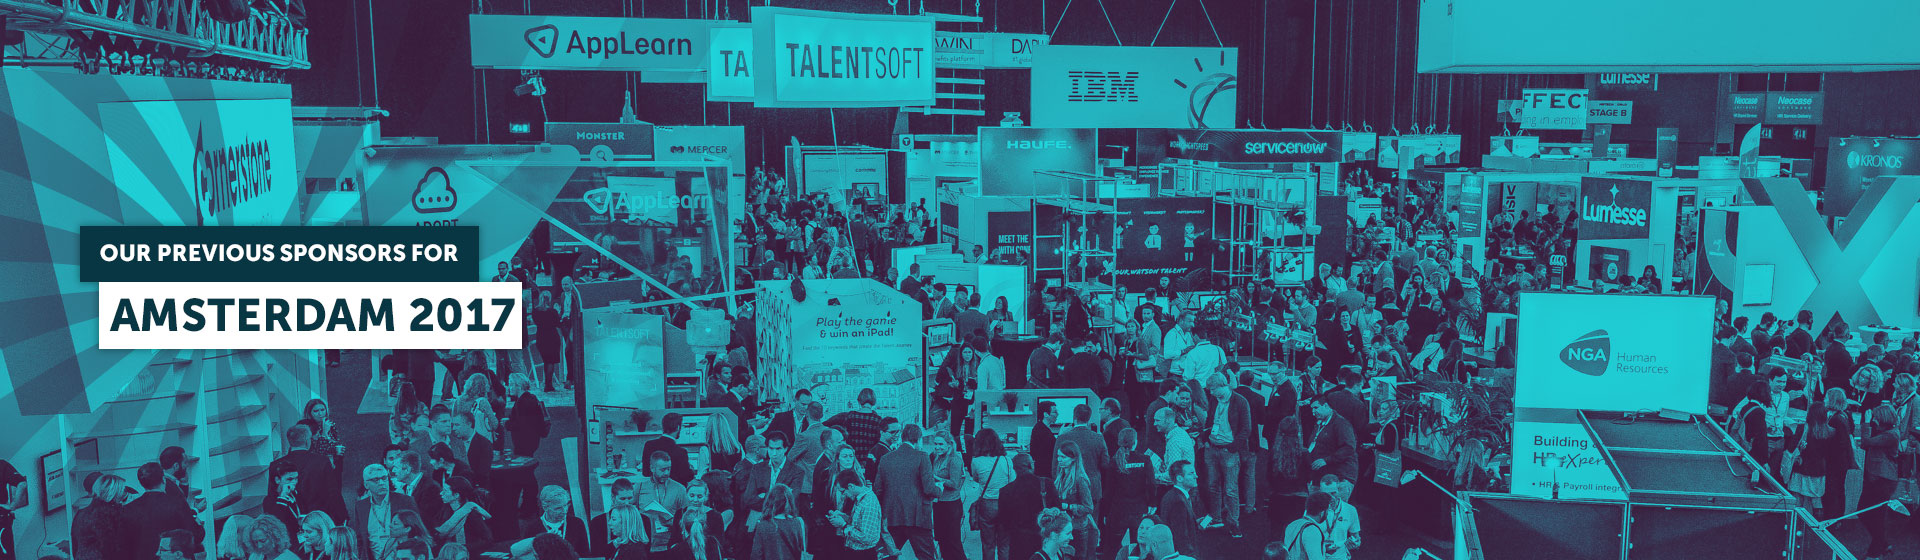
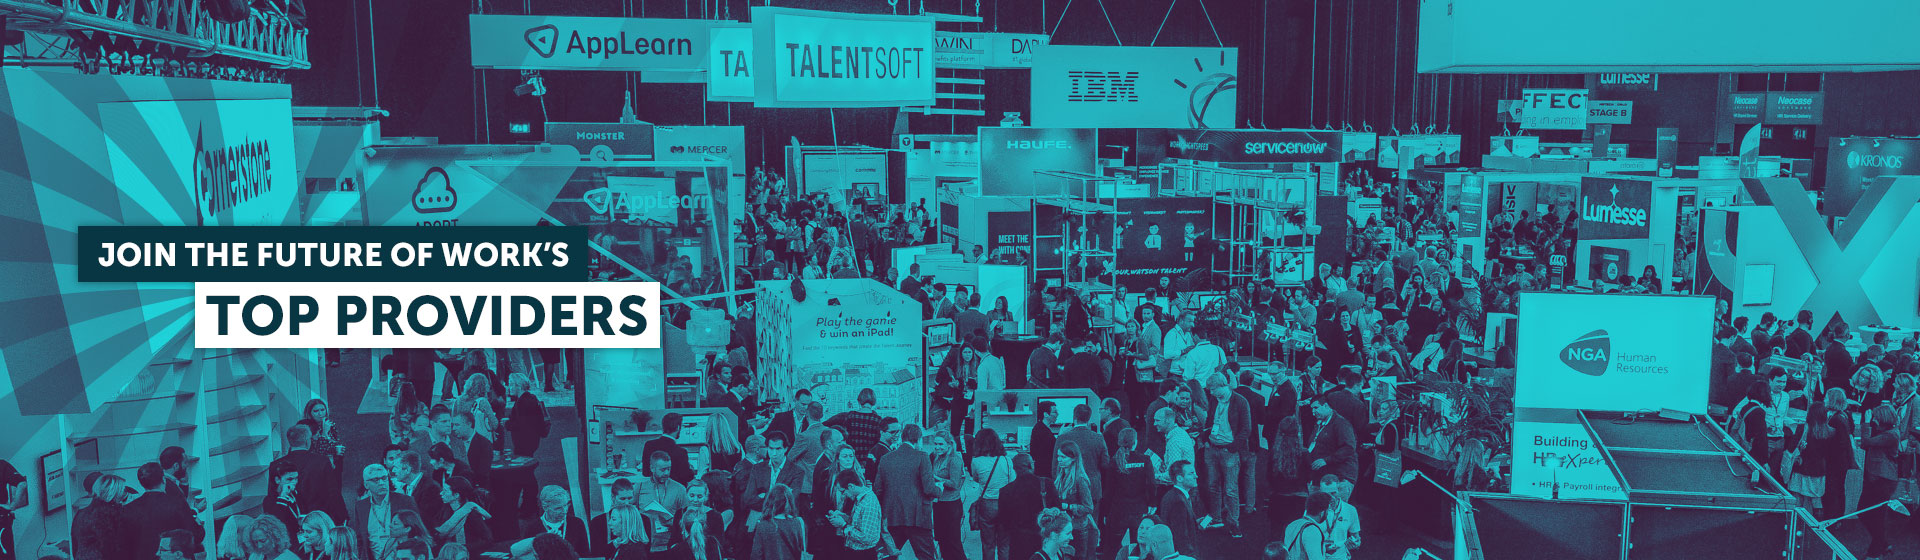
Sponsors and tickets update

Changed region(s): [[0.0312, 0.3946, 0.3438, 0.6375]]

diff --git a/resources/assets/scss/amsterdam/sponsors.scss b/resources/assets/scss/amsterdam/sponsors.scss
@@ -352,14 +352,15 @@ section.two {
     @media (min-width: 75em) {
       section.two .content {
         width: 50%;
-        padding: 2em 4em;
-        padding-top:3em; } }
+        padding: 2em 4em; } }
     @media (min-width: 120em) {
       section.two .content {
         padding: 1.68vw 3.4vw; } }
   section.two button {
-    margin-top: 2em;
-    margin-bottom: 0; }
+    margin-top: 2em;}
+    @media (min-width: 75em) {
+      section.two button {
+        margin-bottom: 2em; } }
   section.two.keynote button {
     margin-bottom: 0; }
 

diff --git a/resources/assets/scss/london/sponsors.scss b/resources/assets/scss/london/sponsors.scss
@@ -180,7 +180,6 @@ section.two {
   section.two.clients {
     flex-direction: column-reverse;
     .green-btn{
-      margin-bottom: 0;
       margin-top: 2em;
     }
     p{

diff --git a/resources/views/london/pages/sponsorshipalacarte.blade.php b/resources/views/london/pages/sponsorshipalacarte.blade.php
@@ -1,0 +1,214 @@
+<!doctype html>
+<html class="se-pre-con">
+<head>
+<meta charset="utf-8">
+	<meta name="description" content="Unleash your people at the fastest growing Future of Work shows in the world! Join us for UNLEASH London on 20-21 March 2018.">
+ 
+         <!-- Open Graph data -->
+        <meta property="og:site_name" content="UNLEASH - London"/>
+        <meta property="og:title" content="UNLEASH - London"/>
+        <meta property="og:description" content="Unleash your people at the fastest growing Future of Work shows in the world! Join us for UNLEASH London on 20-21 March 2018."/>
+        <meta property="og:url" content="http://www.unleashgroup.io/london">
+        <meta property="og:type" content="website"/>
+        <meta property="og:image" content="{{ URL::asset('gfx/london/UNLEASH_metashare_london.png') }}" />
+        <!-- Twitter Card -->
+        <meta name="twitter:card" content="summary_large_image">
+        <meta name="twitter:site" content="@hrtechworld">
+        <meta name="twitter:creator" content="@hrneurope">
+        <meta name="twitter:title" content="UNLEASH - London">
+        <meta name="twitter:description" content="Unleash your people at the fastest growing Future of Work shows in the world! Join us for UNLEASH London on 20-21 March 2018." />
+        <meta name="twitter:image" content="{{ URL::asset('gfx/london/UNLEASH_metashare_london.png') }}">
+<META NAME="ROBOTS" CONTENT="NOINDEX, NOFOLLOW">
+<meta name="developer" content="Developed by: TesseracT - bottyan.tamas@web-developer.hu | Benedek Nagy - trialshock@gmail.com | Balazs Pentek - myrrdhinn@gmail.com">
+<meta name="designer" content="Designed by: Adam Dragus - adam@hrn.io ">
+<meta name="author" content="HRN - Human Resources Network | Unleash Your People!">
+<meta name="keywords" content="HR Tech, HRN">
+<meta name="viewport" content="initial-scale=1, maximum-scale=1">
+<title>UNLEASH 2018 London | Sponsorship Brochure</title>
+<!-- Favicon -->
+<link rel="apple-touch-icon" sizes="57x57" href="img/favicon/apple-icon-57x57.png">
+<link rel="apple-touch-icon" sizes="60x60" href="img/favicon/apple-icon-60x60.png">
+<link rel="apple-touch-icon" sizes="72x72" href="img/favicon/apple-icon-72x72.png">
+<link rel="apple-touch-icon" sizes="76x76" href="img/favicon/apple-icon-76x76.png">
+<link rel="apple-touch-icon" sizes="114x114" href="img/favicon/apple-icon-114x114.png">
+<link rel="apple-touch-icon" sizes="120x120" href="img/favicon/apple-icon-120x120.png">
+<link rel="apple-touch-icon" sizes="144x144" href="img/favicon/apple-icon-144x144.png">
+<link rel="apple-touch-icon" sizes="152x152" href="img/favicon/apple-icon-152x152.png">
+<link rel="apple-touch-icon" sizes="180x180" href="img/favicon/apple-icon-180x180.png">
+<link rel="icon" type="image/png" sizes="192x192"  href="img/favicon/android-icon-192x192.png">
+<link rel="icon" type="image/png" sizes="32x32" href="img/favicon/favicon-32x32.png">
+<link rel="icon" type="image/png" sizes="96x96" href="img/favicon/favicon-96x96.png">
+<link rel="icon" type="image/png" sizes="16x16" href="img/favicon/favicon-16x16.png">
+<link rel="manifest" href="img/favicon/manifest.json">
+<meta name="msapplication-TileImage" content="img/favicon/ms-icon-144x144.png">
+	<link rel="stylesheet" type="text/css" href="{{ mix('css/london/pdfs.css') }}">
+</head>
+<style type="text/css">
+    .no-js #loader { display: none;  }
+    .js #loader { display: block; position: absolute; left: 100px; top: 0; }
+    .se-pre-con {
+        left: 0px;
+        top: 0px;
+        width: 100%;
+        height: 100%;
+        z-index: 9999;
+        background:url({{URL::asset('gfx/london/Preloader_green.gif')}} ) center no-repeat #fff;
+    }
+
+    body{
+        opacity: 0;
+        margin-right: -16px;
+        overflow-x: hidden;
+    }
+    body::-webkit-scrollbar { 
+      display: none; 
+    }
+    footer{
+      display: none;
+    }
+</style>
+<style>
+.demo a {
+      position: absolute;
+      top: 0;
+      left: 0;
+      background: rgba(255,255,255,0.01);
+      width: 100%;
+      height: 2000px;
+      text-align: center;
+      z-index: 2;
+      display: block;
+      -webkit-transform: translate(0, -50%);
+      transform: translate(0, -50%);
+      color: #fff;
+      font : normal 400 20px/1 'Josefin Sans', sans-serif;
+      letter-spacing: .1em;
+      text-decoration: none;
+      transition: opacity .3s;
+    }
+.demo.hide{
+  opacity: 0;
+  visibility: hidden;
+  transition: all 1s;
+}
+
+   .demo a span {
+      position: fixed;
+      top: 1090px;
+      right: 100px;
+      width: 35px;
+      height: 55px;
+      margin-left: -15px;
+      border: 2px solid #fff;
+      border-radius: 50px;
+      box-sizing: border-box;
+    }
+    @media(min-width: 1300px){
+      .demo a span {
+        top: 56%;
+      }
+    }
+    @media(min-width: 1600px){
+      .demo a span {
+        top: 1130px;
+      }
+    }
+    
+    .demo a span::after {
+      content: 'SCROLL';
+      font-size: 12px;
+      position: absolute;
+      left: -15px;
+      bottom: -20px;
+
+
+    }
+
+    .demo a span::before {
+      position: absolute;
+      top: 10px;
+      left: 45%;
+      content: '';
+      width: 8px;
+      height: 8px;
+      margin-left: -3px;
+      background-color: #fff;
+      border-radius: 100%;
+      -webkit-animation: sdb10 2s infinite;
+      animation: sdb10 2s infinite;
+      box-sizing: border-box;
+    }
+    @-webkit-keyframes sdb10 {
+      0% {
+        -webkit-transform: translate(0, 0);
+        opacity: 0;
+      }
+      40% {
+        opacity: 1;
+      }
+      80% {
+        -webkit-transform: translate(0, 20px);
+        opacity: 0;
+      }
+      100% {
+        opacity: 0;
+      }
+    }
+    @keyframes sdb10 {
+      0% {
+        transform: translate(0, 0);
+        opacity: 0;
+      }
+      40% {
+        opacity: 1;
+      }
+      80% {
+        transform: translate(0, 20px);
+        opacity: 0;
+      }
+      100% {
+        opacity: 0;
+      }
+    }
+</style>
+<body>
+<section class="demo">
+        <a><span></span></a>
+</section>
+<div id="pdf-wrap" style="width:100%; height: 2000px;">
+    <object id="pdf" data="http://www.hrn.io/BROCHURES/HRTechWorldLondon2018/UNLEASH18_London_Sponsorship_19_a_la_carte_pages.pdf" type="application/pdf" width="100%" height="100%">
+        alt : <a href="http://www.hrn.io/BROCHURES/HRTechWorldLondon2018/UNLEASH18_London_Sponsorship_19_a_la_carte_pages.pdf">http://www.hrn.io/BROCHURES/HRTechWorldLondon2018/HR_Tech_World_2018_London_Sponsorship.pdf</a>
+    </object>
+</div>
+<script src="https://code.jquery.com/jquery-3.2.1.slim.min.js" integrity="sha256-k2WSCIexGzOj3Euiig+TlR8gA0EmPjuc79OEeY5L45g=" crossorigin="anonymous"></script>
+<script type="text/javascript">
+  
+    $(window).scroll(function () { 
+        var scroll = $(window).scrollTop();
+      if (scroll >= 10) {
+          $(".demo").addClass("hide");
+      } else {
+          $(".demo").removeClass("hide");
+      }
+    });
+</script>
+ <!-- Crazy Egg -->
+        <script type="text/javascript">
+            setTimeout(function () {
+                var a = document.createElement("script");
+                var b = document.getElementsByTagName("script")[0];
+                a.src = document.location.protocol + "//script.crazyegg.com/pages/scripts/0046/2666.js?" + Math.floor(new Date().getTime() / 3600000);
+                a.async = true;
+                a.type = "text/javascript";
+                b.parentNode.insertBefore(a, b)
+            }, 1);
+        </script>
+        <!-- END Crazy Egg -->
+        <script type="text/javascript">
+            setTimeout(function() {
+                document.getElementsByTagName('body')[0].style.opacity = "1";
+                document.getElementsByTagName('html')[0].style.background = "none";
+            }, 35000);
+        </script>
+</body>
+</html>

diff --git a/resources/views/lasvegas/pages/index.blade.php b/resources/views/lasvegas/pages/index.blade.php
@@ -38,7 +38,7 @@
 		</section>
 		<!--Mainsponsors-->
 		<section class="one mainsponsors">
-			<span>Lead Sponsors <strong>2018</strong></span>
+			<span>Lead Sponsors <strong>2017</strong></span>
 			<div class="mainsponsors-wrap">
                    <div> <a href="https://acrobat.adobe.com/uk/en/sign.html" target="_blank" title="Adobe"><img id="adobe" src="{{ URL::asset('gfx/lasvegas/header/sponsors/adobe.svg') }}" alt="Adobe"></a></div>
                    <div> <a href="http://www.adp.com/" target="_blank" title="ADP"><img id="adp" src="{{ URL::asset('gfx/lasvegas/header/sponsors/adp.svg') }}" alt="ADP"></a></div>
@@ -97,7 +97,7 @@
 				<div class="schedule">
 					<img class="clock-logo" src="{{ URL::asset('gfx/clock.png') }}" alt="Date">
 					<div class="date-place">
-						<p><strong>day 01</strong> / 10.25 / Main Auditorium</p>
+						<p>Main Auditorium</p>
 
 					</div>
 				</div>

diff --git a/resources/views/london/pages/sponsors.blade.php b/resources/views/london/pages/sponsors.blade.php
@@ -39,7 +39,6 @@
 		</div>
 		<div class="content">
 			<div class="content-wrap">
-				<h2>Join The Leading Providers<br /> on the Future of Work</h2>
 				<p>UNLEASH sponsors represent the Who’s Who of the world’s leading solution and service providers offering the most innovative and disruptive technologies to be found anywhere. Our sponsors have the solutions that are shaping the Future of Work and driving rapid transformation inside the the 21st century’s most forward thinking organizations. At UNLEASH the show is a happening place for optimism and wonder where inspiration bubbles, and where attendees can discuss and identify the latest technologies and how to implement them for the greatest potential impact.</p>
 				<button class="green-btn popup" data-popupdata="becomeasponsor">Become a sponsor</button>
 			</div>

diff --git a/resources/views/amsterdam/pages/sponsors.blade.php b/resources/views/amsterdam/pages/sponsors.blade.php
@@ -39,7 +39,6 @@
 		</div>
 		<div class="content">
 			<div class="content-wrap">
-				<h2>JOIN THE LEADING PROVIDERS<br /> ON THE FUTURE OF WORK</h2>
 				<p>UNLEASH sponsors represent the Who’s Who of the world’s leading solution and service providers offering the most innovative and disruptive technologies to be found anywhere. Our sponsors have the solutions that are shaping the Future of Work and driving rapid transformation inside the the 21st century’s most forward thinking organizations. At UNLEASH the show is a happening place for optimism and wonder where inspiration bubbles, and where attendees can discuss and identify the latest technologies and how to implement them for the greatest potential impact.</p>
 				<button class="blue-btn popup" data-popupdata="becomeasponsor">Become a sponsor</button>
 			</div>

diff --git a/resources/views/london/pages/tickets_earlybird.blade.php b/resources/views/london/pages/tickets_earlybird.blade.php
@@ -140,7 +140,7 @@
     <div class="TicketBoxHeader">
         <div class="TicketBoxHeaderInner">
             <h2 class="TicketHeadline">PUBLIC &amp; GOVERNMENTAL SECTOR</h2>
-            <h2 class="TicketPrice">&pound;695</h2>
+            <h2 class="TicketPrice">&pound;995</h2>
             <h4 class="TicketSmallText">Save &pound;300 off Regular ticket price</h4>
             <h3 class="TicketDeadline">UNTIL DECEMBER 31.</h3>
         </div>

diff --git a/routes/web.php b/routes/web.php
@@ -143,6 +143,11 @@ Route::get('/london/sponsor-pdf', function () {
   return view('london.pages.sponsorshippdf');
 });
 
+Route::get('/london/sponsor-alacarte', function () {
+  return view('london.pages.sponsorshipalacarte');
+});
+
+
 Route::get('/london/delegate-brochure', function () {
   return view('london.pages.delegatepdf');
 });
